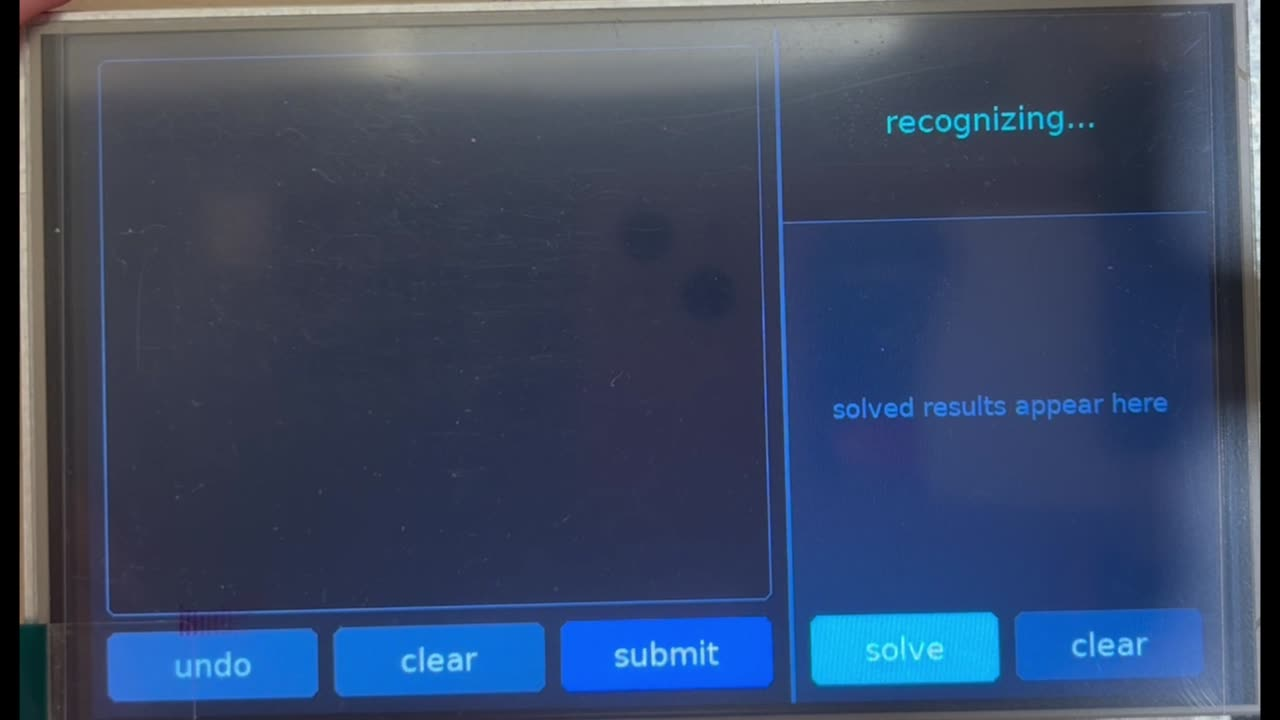
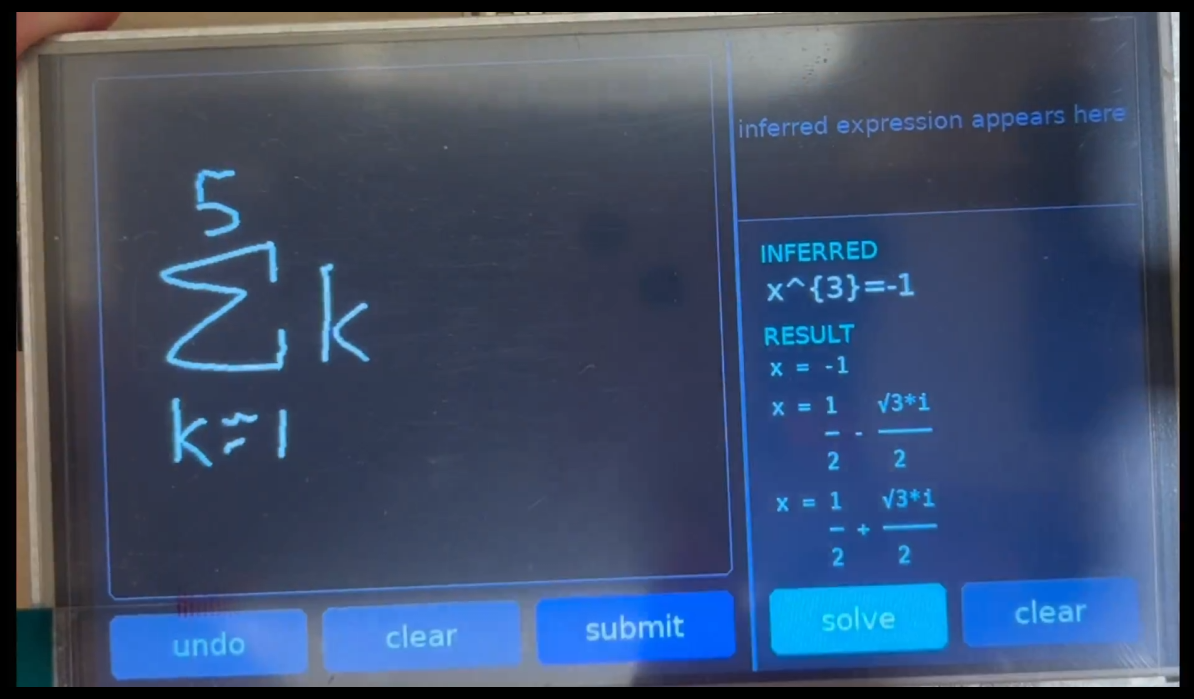
adding some photos

Changed region(s): [[0.0, 0.0, 0.9916, 1.0], [0.124, 0.2403, 0.3099, 0.5408], [0.124, 0.5708, 0.2479, 0.6609]]

diff --git a/docs/index.html b/docs/index.html
@@ -101,6 +101,12 @@ figure{margin:26px 0;background:var(--panel);border:1px solid var(--line);border
   padding:24px;overflow-x:auto}
 figure svg{display:block;max-width:100%;height:auto;margin:0 auto}
 figcaption{color:var(--muted);font-size:13.5px;margin-top:16px;text-align:center;max-width:none}
+/* device photos */
+.shots{display:grid;gap:16px;grid-template-columns:repeat(auto-fit,minmax(280px,1fr));margin:26px 0}
+figure.shot{margin:0;background:var(--panel);border:1px solid var(--line);border-radius:12px;
+  padding:14px;overflow:hidden}
+figure.shot img{display:block;width:100%;height:auto;border-radius:8px}
+figure.shot figcaption{margin-top:12px}
 
 /* tables */
 .tablewrap{overflow-x:auto;border:1px solid var(--line);border-radius:12px;background:var(--panel)}
@@ -507,6 +513,16 @@ footer .wrap{display:flex;justify-content:space-between;gap:20px;flex-wrap:wrap}
     <span class="tag">Deployment</span>
     <h2>Getting it onto the Pi</h2>
     <p class="sectlede">The training environment never ships. The checkpoint is converted to a self-contained ONNX graph so that inference on-device needs only <span class="mono">onnxruntime</span> and NumPy &mdash; no PyTorch on a machine with 4&nbsp;GB of RAM.</p>
+    <div class="shots">
+      <figure class="shot">
+        <img src="frontOn.jpg" alt="InkCalc running on the 5-inch resistive touchscreen, viewed straight on" loading="lazy">
+        <figcaption>The finished device head-on: the draw pad fills the left of the 5&Prime; touchscreen, with the inferred expression and solved result on the right and the action buttons along the bottom.</figcaption>
+      </figure>
+      <figure class="shot">
+        <img src="connections.jpg" alt="Raspberry Pi 4 mounted beneath the display with USB, HDMI, Ethernet and power connections visible" loading="lazy">
+        <figcaption>From behind: the Raspberry&nbsp;Pi&nbsp;4 sits directly under the panel, which takes video over HDMI and touch input over USB &mdash; alongside the Pi's power and remaining ports.</figcaption>
+      </figure>
+    </div>
     <figure>
 <svg viewBox="0 0 960 150" role="img" aria-label="Export path from checkpoint to Raspberry Pi">
   <g font-family="system-ui,sans-serif" text-anchor="middle">
